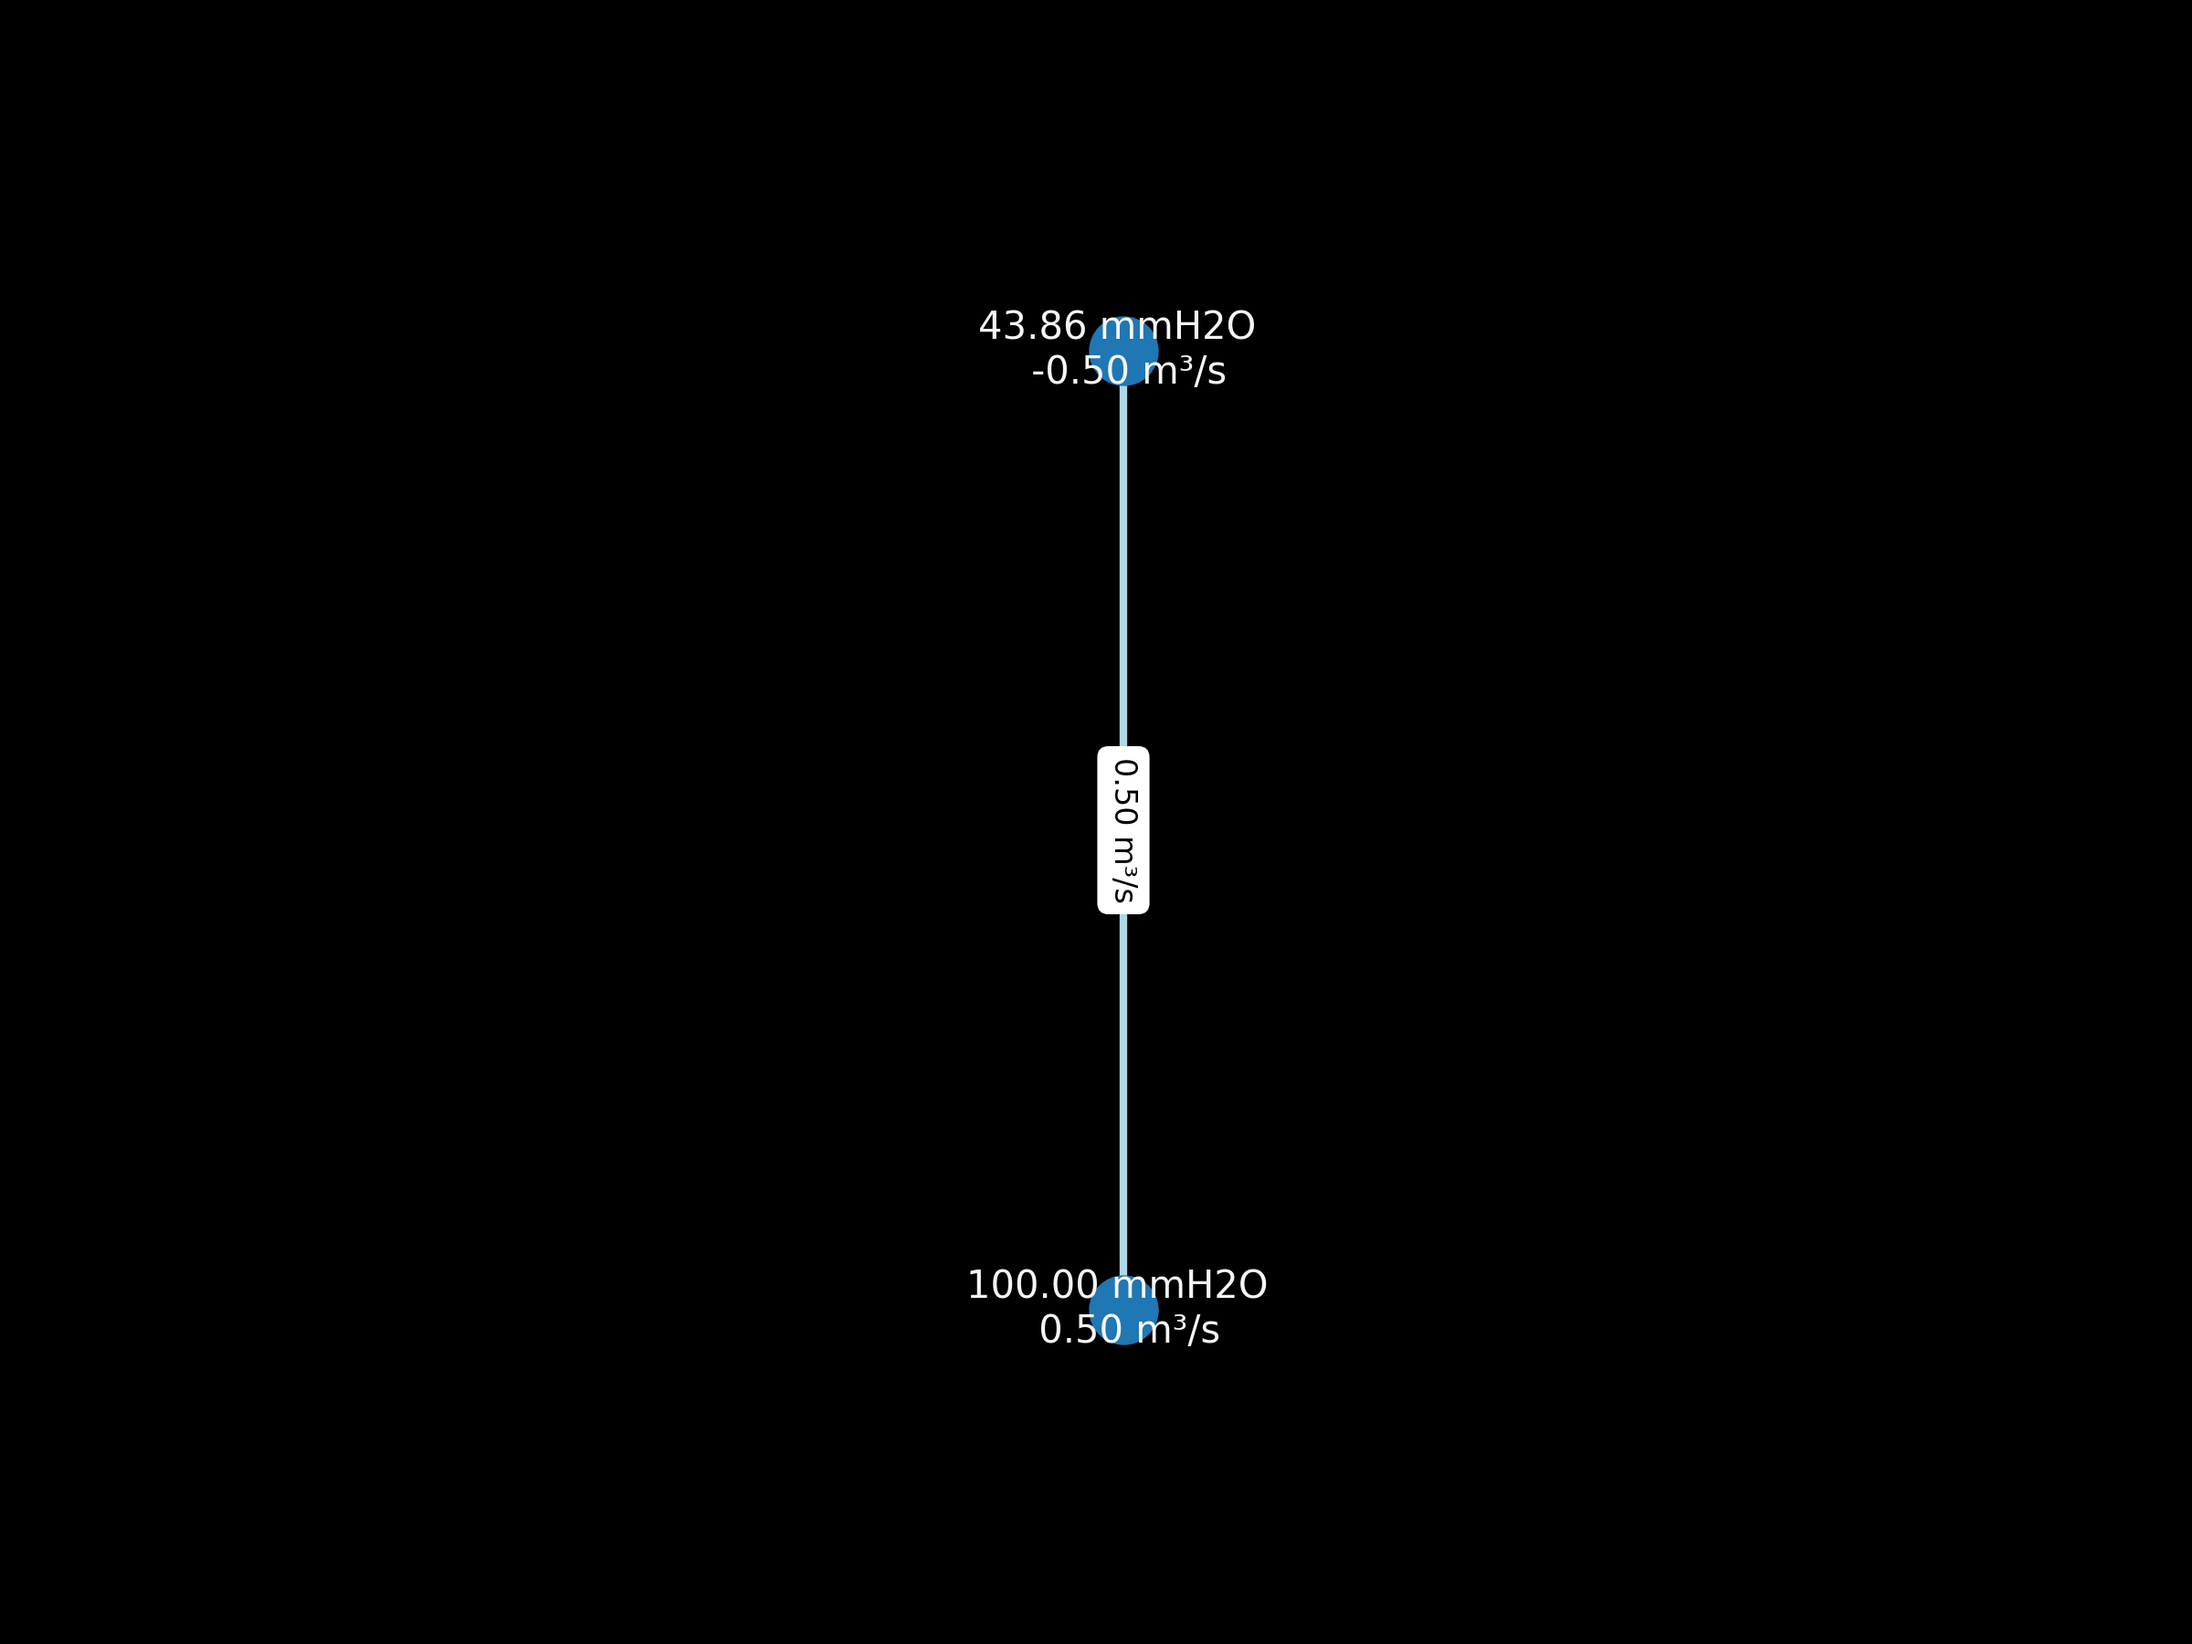
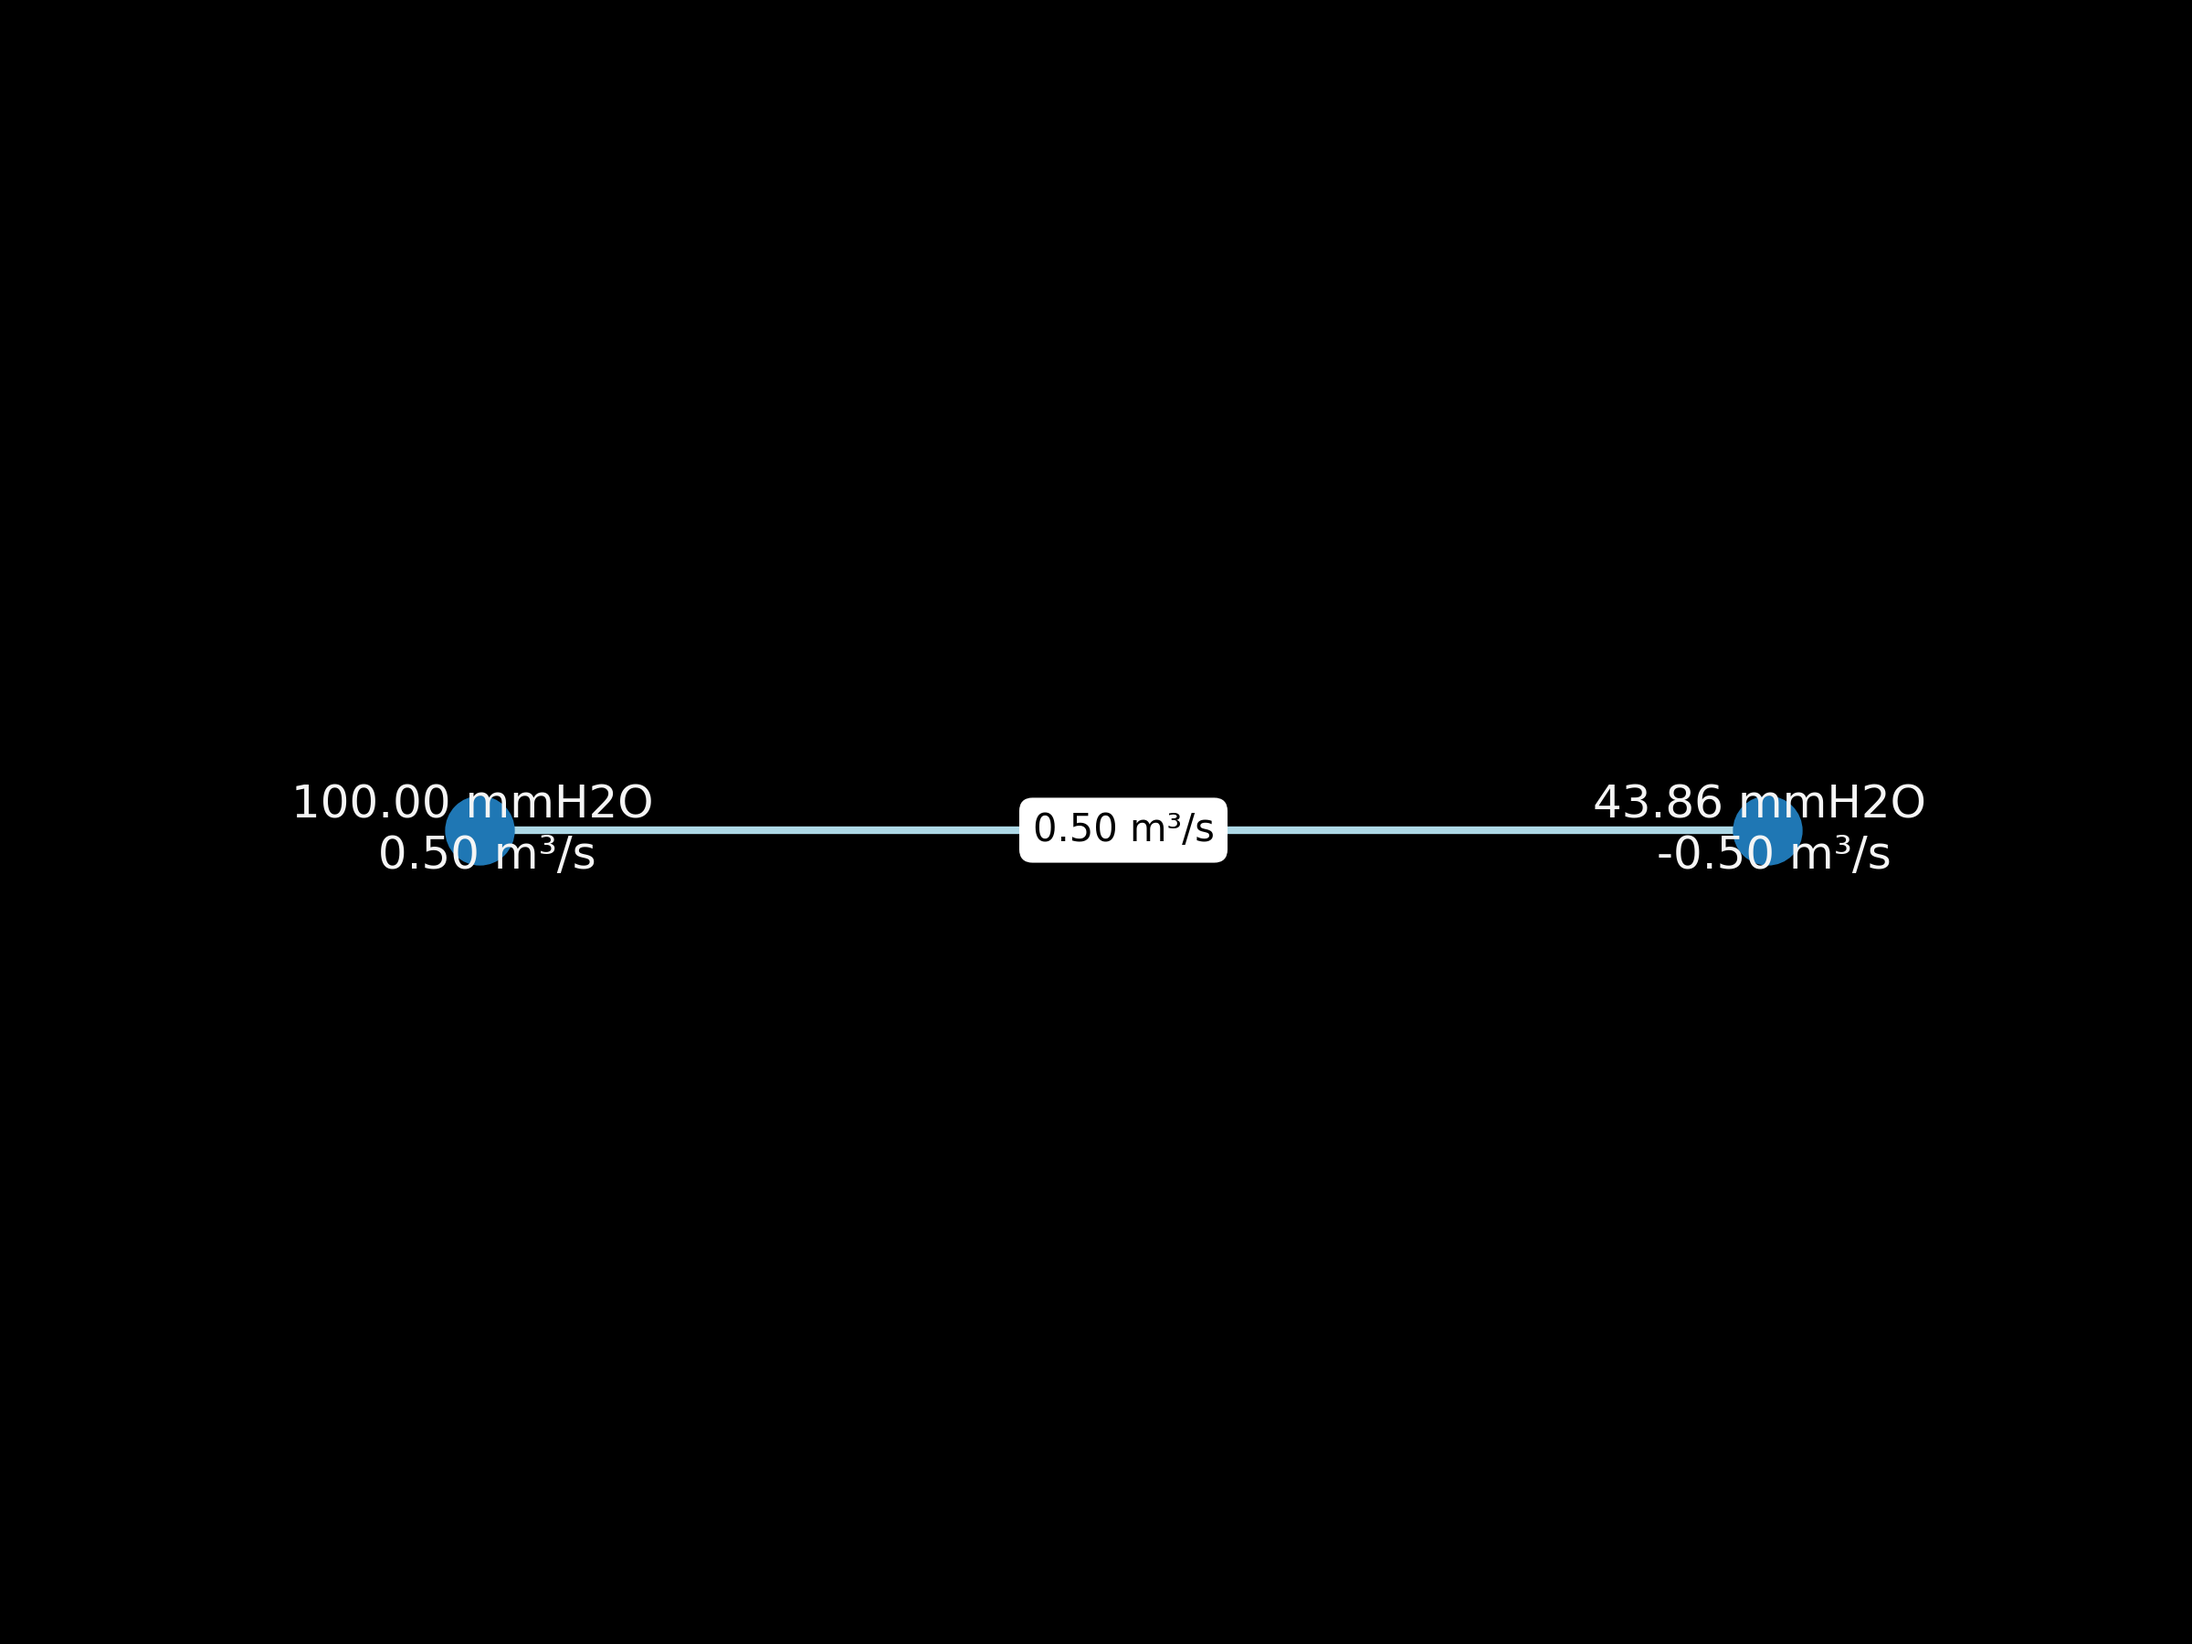
code final

Changed region(s): [[0.125, 0.1867, 0.875, 0.84]]

diff --git a/Projet/conduits_gui.py b/Projet/conduits_gui.py
@@ -117,7 +117,7 @@ class FluidFlowApp:
             "debit": tk.DoubleVar(),
             "active": tk.StringVar(value="pression")  # Default to pressure
         }
-        self.graph.add_node(point_id, pos=(x, y))
+        self.graph.add_node(point_id, pos=(x, 400-y))
 
         self.connect_cardinal_neighbors(point_id)
 
@@ -214,7 +214,7 @@ class FluidFlowApp:
         if point_id in self.graph:
             self.graph.remove_node(point_id)
 
-        self.graph.add_node(point_id, pos=(x, y))  # Ensure the point exists in the graph
+        self.graph.add_node(point_id, pos=(x, 400 - y))  # Ensure the point exists in the graph
 
         # Check in all four cardinal directions
         for dx, dy in [(0, -self.grid_size), (0, self.grid_size), (-self.grid_size, 0), (self.grid_size, 0)]:
@@ -289,7 +289,6 @@ class FluidFlowApp:
         network = self.export_grid_data()
 
         noeuds, conduits = calculation_sim(network, prm)
-        print(noeuds)
         sortie_console(noeuds, conduits)
 
         self.ax.clear()

diff --git a/Projet/conduits_analyse.py b/Projet/conduits_analyse.py
@@ -74,5 +74,5 @@ reseau_perso = {0: {"voisins": [1], "pression": 100},
 tol = 1e-5
 N = 1000
 
-noeuds, conduits = calculation_sim(reseau_perso, prm, tol=tol,N=N)
+noeuds, conduits = calculation_sim(reseau_6_noeuds, prm, tol=tol,N=N)
 sortie_console(noeuds, conduits)
